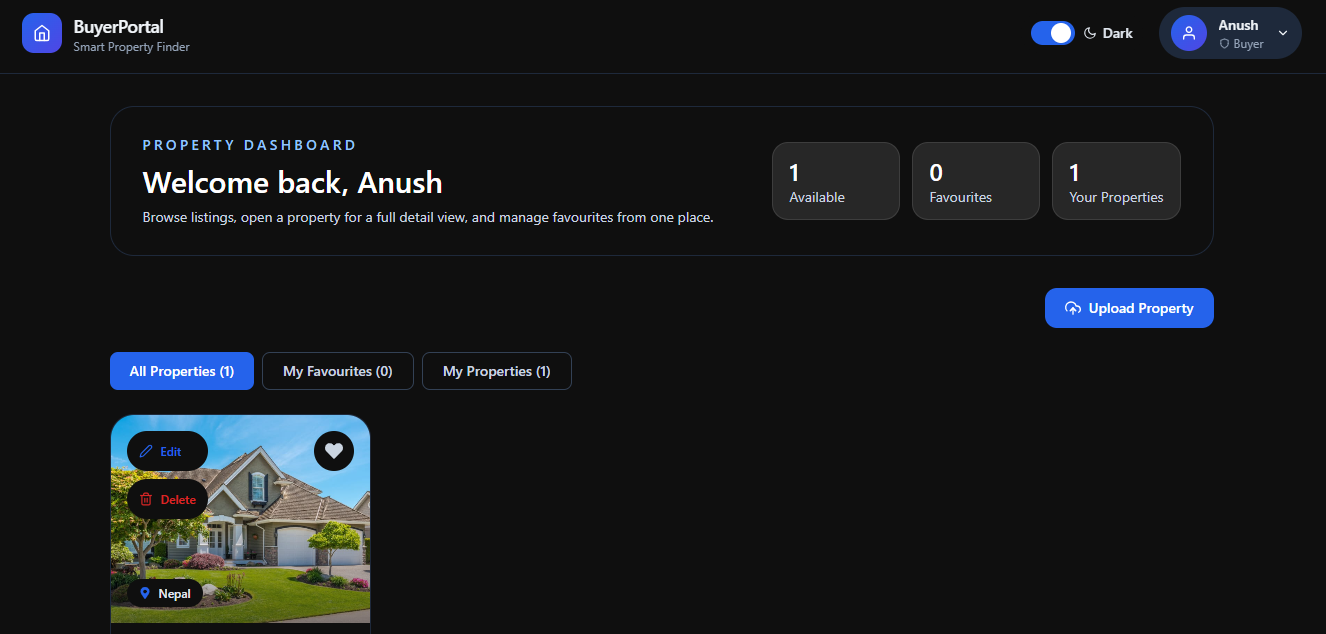
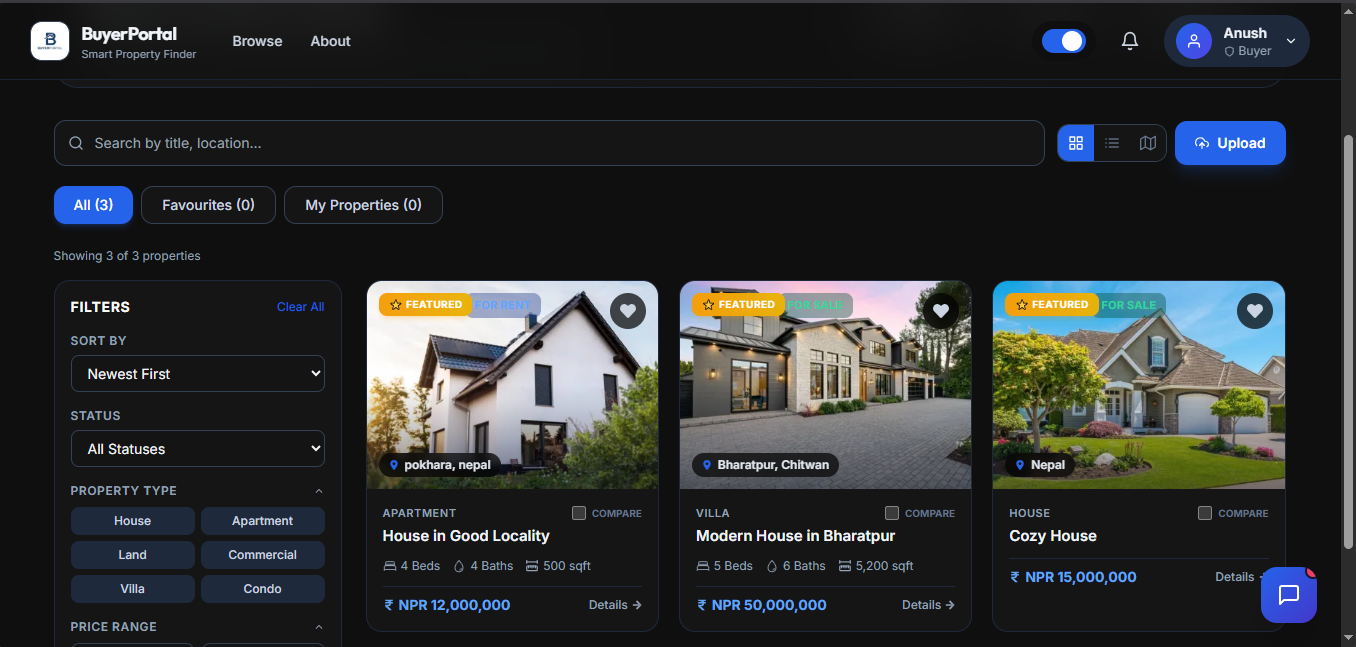
feat: add project details and update project screenshot assets

diff --git a/src/data/projects.js b/src/data/projects.js
@@ -1,9 +1,15 @@
-import buyerPortalDashboard from '../assets/project-screenshots/buyer-portal/dashboard.PNG';
 import buyerPortalLightMode from '../assets/project-screenshots/buyer-portal/light mode.PNG';
 import buyerPortalLogin from '../assets/project-screenshots/buyer-portal/login.PNG';
 import buyerPortalProfile from '../assets/project-screenshots/buyer-portal/profile.PNG';
 import buyerPortalSellerProfile from '../assets/project-screenshots/buyer-portal/seller profile.PNG';
 import buyerPortalUploadProperty from '../assets/project-screenshots/buyer-portal/upload property.PNG';
+import buyerPortalHomepage from '../assets/project-screenshots/buyer-portal/Homepage.PNG';
+import buyerPortalAIAssistant from '../assets/project-screenshots/buyer-portal/AI Assistant.PNG';
+import buyerPortalAboutPage from '../assets/project-screenshots/buyer-portal/About page.PNG';
+import buyerPortalAdminDashboard from '../assets/project-screenshots/buyer-portal/Admin dashboard.PNG';
+import buyerPortalEMICalculator from '../assets/project-screenshots/buyer-portal/EMI calculator.PNG';
+import buyerPortalPropertyInquiries from '../assets/project-screenshots/buyer-portal/property Inquiries.PNG';
+import buyerPortalPropertyMap from '../assets/project-screenshots/buyer-portal/property description and map.PNG';
 import chitwanTourHomepage from '../assets/project-screenshots/chitwan-tour/homepage.PNG';
 import chitwanTourGallery from '../assets/project-screenshots/chitwan-tour/gallery.PNG';
 import chitwanTourServices from '../assets/project-screenshots/chitwan-tour/services.PNG';
@@ -20,8 +26,59 @@ import collabEditorCollaborators from '../assets/project-screenshots/collab-edit
 import collabEditorAnotherUser from '../assets/project-screenshots/collab-editor/another user pov.PNG';
 import collabEditorVersionHistory from '../assets/project-screenshots/collab-editor/version history.PNG';
 
+// Syncra Screenshots
+import syncraAudioVideoRoom from '../assets/project-screenshots/syncra/audio and video room.PNG';
+import syncraGeneralChat from '../assets/project-screenshots/syncra/general chat.PNG';
+import syncraOrgAnalytics from '../assets/project-screenshots/syncra/org analytics.PNG';
+import syncraOrgCreate from '../assets/project-screenshots/syncra/org create.PNG';
+import syncraOrgSettings from '../assets/project-screenshots/syncra/org settings.PNG';
+import syncraProfileAndStatus from '../assets/project-screenshots/syncra/profile and status.PNG';
+
 // Project data for portfolio and project detail pages
 export const projectsData = [
+  {
+    id: 6,
+    slug: 'syncra',
+    title: 'Syncra',
+    category: 'Full Stack Web App',
+    tags: ['Next.js', 'Supabase', 'TypeScript', 'Tailwind CSS', 'Socket.io', 'WebRTC', 'Gemini AI'],
+    description: 'A flagship real-time team collaboration platform with chat, WebRTC audio/video rooms, multi-tenancy, and AI channel summaries.',
+    longDescription:
+      'Syncra is a flagship, production-grade real-time team collaboration platform (similar to Slack) built as a multi-tenant SaaS. It features full-featured real-time chat with optimistic UI updates, emoji reactions, nested threads, and drag-and-drop file storage. It also supports screen sharing and recording in WebRTC audio/video rooms, role-based access control (RBAC), automatic email invites, online presence, live analytics dashboards, system-aware dark/light modes, rate limiting, and an AI \'Catch me up\' channel summary powered by Gemini 1.5 Flash.',
+    coverImage: syncraGeneralChat,
+    role: 'Full Stack Developer',
+    duration: 'Completed',
+    impact: 'Designed and built a highly secure, multi-tenant SaaS architecture supporting real-time messaging, WebRTC conferencing, and automated AI insights.',
+    tools: ['Next.js 16', 'TypeScript', 'Tailwind CSS', 'Supabase', 'PostgreSQL', 'Socket.io', 'WebRTC', 'Google Gemini AI', 'Upstash Redis', 'Resend'],
+    link: 'https://syncra-liard.vercel.app',
+    github: 'https://github.com/AnushAdk04/syncra',
+    screenshots: [
+      {
+        src: syncraGeneralChat,
+        alt: 'Syncra general chat interface with channel messages, emoji reactions, and sidebar',
+      },
+      {
+        src: syncraAudioVideoRoom,
+        alt: 'Real-time mesh-topology WebRTC video and audio meeting room with controls',
+      },
+      {
+        src: syncraOrgAnalytics,
+        alt: 'Organization analytics dashboard showing daily activity, top members, and channel stats',
+      },
+      {
+        src: syncraOrgSettings,
+        alt: 'Organization settings panel for member management, roles, and inviting teammates',
+      },
+      {
+        src: syncraProfileAndStatus,
+        alt: 'User profile customization modal with custom status and emoji selection',
+      },
+      {
+        src: syncraOrgCreate,
+        alt: 'Create workspace screen for initializing a new multi-tenant organization',
+      },
+    ],
+  },
   {
     id: 1,
     slug: 'project-red',
@@ -140,45 +197,65 @@ export const projectsData = [
     slug: 'buyer-portal',
     title: 'Buyer Portal',
     category: 'Full Stack Web App',
-    tags: ['React', 'Node.js', 'Express', 'MySQL', 'PostgreSQL', 'TypeScript'],
-    description: 'A modern property discovery and listing portal with clean dashboard and property detail experience.',
+    tags: ['React 19', 'Node.js', 'Express', 'PostgreSQL', 'Leaflet.js', 'Tailwind CSS'],
+    description: 'A full-stack, production-ready real estate portal where users can discover, compare, and manage properties with ease.',
     longDescription:
-      'Buyer Portal is a property-focused web application with polished card layouts, listing details, and streamlined user actions. It is designed around clarity and speed with dark UI patterns and practical workflow actions.',
-    coverImage: buyerPortalDashboard,
+      'Buyer Portal is a comprehensive, full-stack real estate marketplace designed for buyers, sellers, and administrators. It features a robust high-performance search engine, interactive maps via Leaflet.js with pin clustering, dynamic EMI visualization and analytics via Recharts, and a data-driven admin dashboard, all wrapped in a sleek glassmorphic React 19 UI. Users can promote and feature properties via eSewa and Khalti sandbox checkouts. The system supports full role-based access control, JWT authentication, auto-optimized image transforms via Cloudinary, and transactional email alerts via Resend.',
+    coverImage: buyerPortalHomepage,
     role: 'Full Stack Developer',
-    duration: 'Ongoing',
-    impact: 'Delivered a production-ready UI and listing flow for property exploration',
-    tools: ['React.js', 'TypeScript', 'Node.js', 'Express.js', 'PostgreSQL', 'Render'],
+    duration: 'Completed',
+    impact: 'Delivered a high-performance property exploration ecosystem with integrated sandbox payments and seamless geographic mapping.',
+    tools: ['React 19', 'Vite 8', 'PostgreSQL', 'Node.js', 'Express.js', 'Tailwind CSS', 'Leaflet.js', 'Recharts', 'Cloudinary', 'Resend', 'eSewa & Khalti APIs'],
     link: 'https://buyer-portal-alpha.vercel.app/',
     github: 'https://github.com/AnushAdk04/Buyer-Portal',
     screenshots: [
       {
-        src: buyerPortalDashboard,
-        alt: 'Buyer Portal property detail screenshot',
+        src: buyerPortalHomepage,
+        alt: 'Buyer Portal homepage showing premium property marketplace search interface',
       },
       {
-        src: buyerPortalDashboard,
-        alt: 'Buyer Portal dashboard screenshot',
+        src: buyerPortalPropertyMap,
+        alt: 'Property details with interactive Leaflet.js map and description',
       },
       {
-        src: buyerPortalLogin,
-        alt: 'Buyer Portal login screen screenshot',
+        src: buyerPortalAdminDashboard,
+        alt: 'Admin analytics dashboard with user, properties, and payment statistics',
+      },
+      {
+        src: buyerPortalEMICalculator,
+        alt: 'EMI Mortgage loan calculator with interactive visualization',
+      },
+      {
+        src: buyerPortalAIAssistant,
+        alt: 'AI assistant chat interface for property recommendations and assistance',
       },
       {
         src: buyerPortalUploadProperty,
-        alt: 'Buyer Portal upload property screenshot',
+        alt: 'Upload property listing form with image upload inputs',
       },
       {
-        src: buyerPortalProfile,
-        alt: 'Buyer Portal profile screenshot',
+        src: buyerPortalPropertyInquiries,
+        alt: 'Property inquiries and messages management panel',
       },
       {
-        src: buyerPortalSellerProfile,
-        alt: 'Buyer Portal seller profile screenshot',
+        src: buyerPortalAboutPage,
+        alt: 'About page explaining platform features and services',
       },
       {
         src: buyerPortalLightMode,
-        alt: 'Buyer Portal light mode screenshot',
+        alt: 'Light mode display of the marketplace search results',
+      },
+      {
+        src: buyerPortalProfile,
+        alt: 'User profile and saved favorites panel',
+      },
+      {
+        src: buyerPortalSellerProfile,
+        alt: 'Seller dashboard and details page',
+      },
+      {
+        src: buyerPortalLogin,
+        alt: 'Sleek login screen showing security check integration',
       },
     ],
   },
@@ -205,8 +282,8 @@ export const projectsData = [
       },
     ],
   },
-  
-  
+
+
 ];
 
 export const projectCategories = ['All', 'Full Stack Web App', 'Web Development', 'JavaScript Project'];

diff --git a/src/components/Services.jsx b/src/components/Services.jsx
@@ -1,9 +1,10 @@
 import React from 'react';
 import { motion } from 'framer-motion';
-import { FaCode, FaPalette } from 'react-icons/fa';
+import { FaCode, FaPalette, FaMobileAlt } from 'react-icons/fa';
 import { SectionWrapper, Button } from './index';
 import fullStackImage from '../assets/Project RED Image.jpg';
 import uiUxImage from '../assets/Buyers portal.PNG';
+import mobileAppImage from '../assets/mobile app development.png';
 
 const Services = () => {
   const services = [
@@ -24,6 +25,15 @@ const Services = () => {
       link: 'https://www.figma.com/proto/LLNlSLIgSEz2ijiS30GAw4/Movie-Ticket?node-id=1-5&t=G6X4zN3PWIjjJXfg-1&scaling=scale-down&page-id=0%3A1',
       color: 'from-orange-500 to-rose-500',
       image: uiUxImage,
+    },
+    {
+      icon: FaMobileAlt,
+      title: 'Mobile App Development',
+      description:
+        'I develop modern, high-performance, and responsive cross-platform mobile applications for Android and iOS using Flutter, ensuring smooth animations, native-like speed, and premium user experience.',
+      link: null,
+      color: 'from-emerald-500 to-teal-500',
+      image: mobileAppImage,
     },
   ];
 
@@ -49,11 +59,11 @@ const Services = () => {
   return (
     <SectionWrapper
       title="My Services"
-      subtitle="Full stack product development and UI/UX design services"
+      subtitle="Full stack product development, mobile applications, and UI/UX design services"
       variant="alternate"
     >
       <motion.div
-        className="grid grid-cols-1 md:grid-cols-2 gap-8"
+        className="grid grid-cols-1 md:grid-cols-2 lg:grid-cols-3 gap-8"
         variants={containerVariants}
         initial="hidden"
         whileInView="visible"

diff --git a/src/components/FeaturedProjects.jsx b/src/components/FeaturedProjects.jsx
@@ -6,7 +6,10 @@ import { Card } from './index';
 import { projectsData } from '../data/projects';
 
 const FeaturedProjects = () => {
-  const projects = projectsData;
+  const featuredSlugs = ['syncra', 'project-red', 'chitwan-tour', 'buyer-portal'];
+  const projects = featuredSlugs
+    .map((slug) => projectsData.find((p) => p.slug === slug))
+    .filter(Boolean);
 
   const containerVariants = {
     hidden: { opacity: 0 },